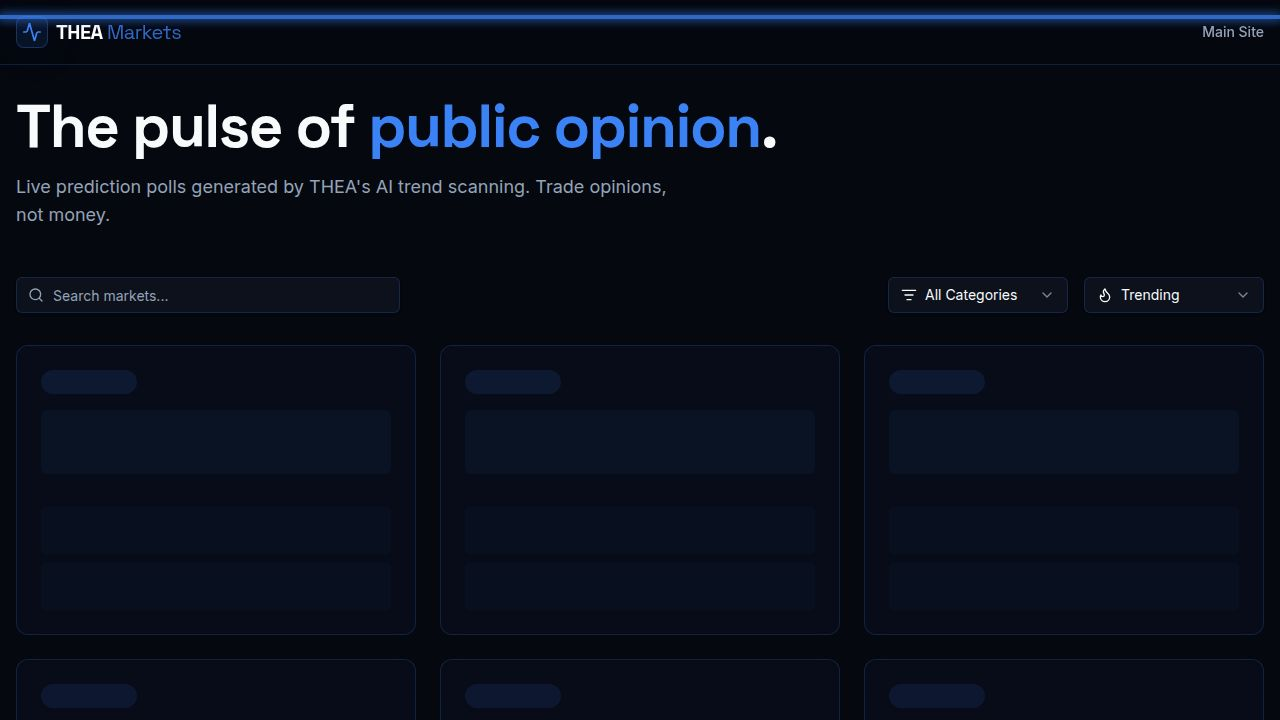
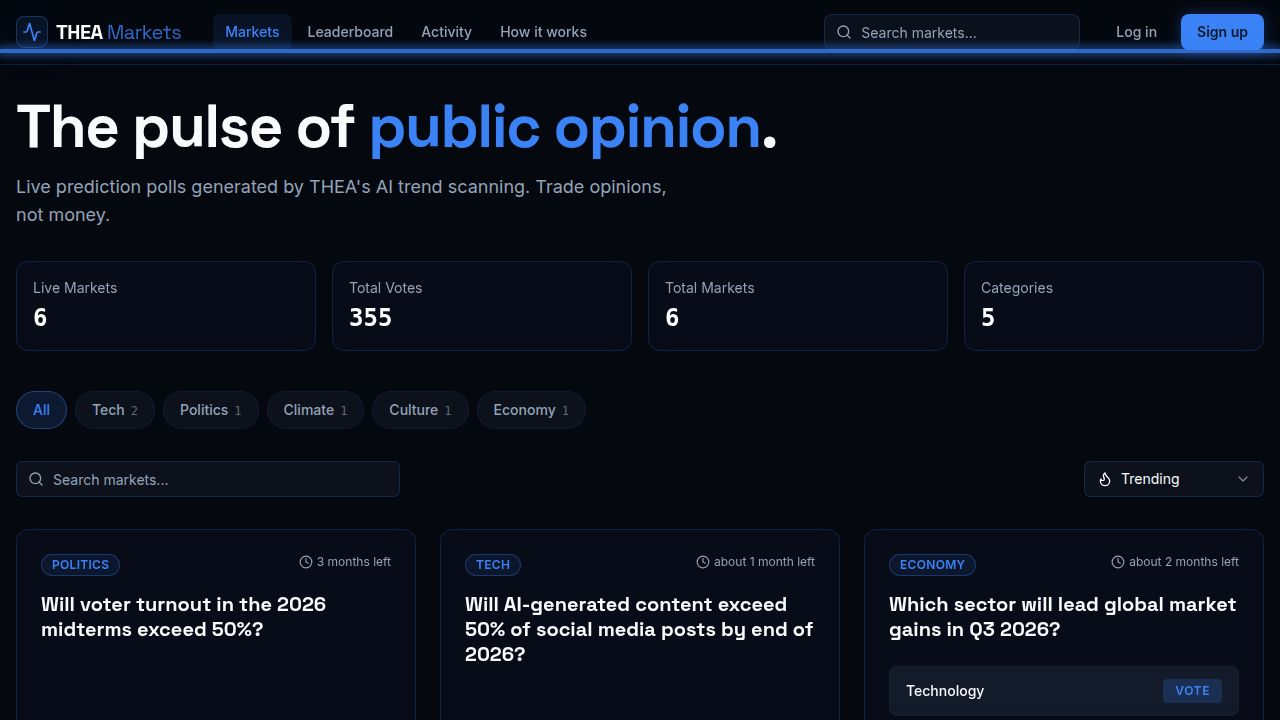
Add temporary endpoint to provision Stripe products and prices
Adds a temporary POST endpoint at /api/internal/provision-stripe to programmatically create Stripe products, prices, and webhooks. This endpoint is guarded by a PROVISION_TOKEN environment variable and is intended for one-time use after deployment. It also introduces the `stripeProvisioning.ts` module responsible for the provisioning logic.

Replit-Commit-Author: Agent
Replit-Commit-Session-Id: 346a3504-951f-44f0-abb5-65db62b4b43f
Replit-Commit-Checkpoint-Type: full_checkpoint
Replit-Commit-Event-Id: 02f2b8f2-334f-446e-89b0-edc5ef99e5f9
Replit-Commit-Screenshot-Url: https://storage.googleapis.com/screenshot-production-us-central1/e9d033dc-0117-437b-a6c1-d83e4ebe9909/346a3504-951f-44f0-abb5-65db62b4b43f/RYsPgYc
Replit-Helium-Checkpoint-Created: true

diff --git a/artifacts/api-server/src/lib/stripeProvisioning.ts b/artifacts/api-server/src/lib/stripeProvisioning.ts
@@ -1,0 +1,190 @@
+/**
+ * stripeProvisioning.ts
+ *
+ * Idempotently provisions the Stripe objects THEA billing needs:
+ *   1. Three products (Starter / Pro / Enterprise) with tier metadata.
+ *   2. Six recurring prices (monthly + annual) whose amounts match
+ *      amountForPlan() in lib/plans.ts so PayPal/crypto annual charges stay in
+ *      lockstep with Stripe.
+ *   3. A webhook endpoint pointing at <apiOrigin>/api/webhooks/stripe that
+ *      listens for the subscription/invoice events our handler processes.
+ *
+ * Must run inside the API server process, which is where the real
+ * STRIPE_SECRET_KEY is available. Returns the resulting price-ID env map plus
+ * the webhook signing secret so the caller can persist them.
+ */
+
+import { writeFileSync } from "node:fs";
+import type Stripe from "stripe";
+import { getStripeClient } from "./stripe";
+import { logger } from "./logger";
+
+interface TierConfig {
+  tier: "starter" | "pro" | "enterprise";
+  envPrefix: string;
+  name: string;
+  description: string;
+  monthlyUsd: number;
+  annualUsd: number;
+  metadata: Record<string, string>;
+}
+
+const TIERS: TierConfig[] = [
+  {
+    tier: "starter",
+    envPrefix: "STRIPE_STARTER",
+    name: "THEA Starter",
+    description: "Up to 5 users, 10 watchlist keywords, 3 categories, 14-day history",
+    monthlyUsd: 99,
+    annualUsd: 948,
+    metadata: { tier: "starter", maxUsers: "5", maxKeywords: "10", maxCategories: "3", historyDays: "14" },
+  },
+  {
+    tier: "pro",
+    envPrefix: "STRIPE_PRO",
+    name: "THEA Pro",
+    description: "Up to 20 users, 50 watchlist keywords, 7 categories, 90-day history",
+    monthlyUsd: 499,
+    annualUsd: 4788,
+    metadata: { tier: "pro", maxUsers: "20", maxKeywords: "50", maxCategories: "7", historyDays: "90" },
+  },
+  {
+    tier: "enterprise",
+    envPrefix: "STRIPE_ENTERPRISE",
+    name: "THEA Enterprise",
+    description: "Unlimited users, keywords, and categories — 10-year history, dedicated support",
+    monthlyUsd: 1999,
+    annualUsd: 19188,
+    metadata: { tier: "enterprise", maxUsers: "-1", maxKeywords: "-1", maxCategories: "-1", historyDays: "3650" },
+  },
+];
+
+const WEBHOOK_EVENTS: Stripe.WebhookEndpointCreateParams.EnabledEvent[] = [
+  "customer.subscription.created",
+  "customer.subscription.updated",
+  "customer.subscription.deleted",
+  "invoice.payment_failed",
+];
+
+export interface StripeProvisionResult {
+  priceEnv: Record<string, string>;
+  webhookSecret: string;
+  webhookUrl: string;
+  webhookId: string;
+}
+
+async function findProductByTier(stripe: Stripe, tier: string): Promise<Stripe.Product | undefined> {
+  let startingAfter: string | undefined;
+  for (;;) {
+    const page: Stripe.ApiList<Stripe.Product> = await stripe.products.list({
+      limit: 100,
+      active: true,
+      ...(startingAfter ? { starting_after: startingAfter } : {}),
+    });
+    const match = page.data.find((p) => p.metadata?.tier === tier);
+    if (match) return match;
+    if (!page.has_more || page.data.length === 0) return undefined;
+    startingAfter = page.data[page.data.length - 1].id;
+  }
+}
+
+async function ensurePrice(
+  stripe: Stripe,
+  productId: string,
+  interval: "month" | "year",
+  amountUsd: number,
+  nickname: string,
+  billing: string,
+  tier: string,
+): Promise<string> {
+  const prices = await stripe.prices.list({ product: productId, limit: 100, active: true });
+  const existing = prices.data.find(
+    (pr) =>
+      pr.recurring?.interval === interval &&
+      pr.unit_amount === amountUsd * 100 &&
+      pr.currency === "usd",
+  );
+  if (existing) return existing.id;
+  const created = await stripe.prices.create({
+    product: productId,
+    currency: "usd",
+    unit_amount: amountUsd * 100,
+    recurring: { interval },
+    nickname,
+    metadata: { tier, billing },
+  });
+  return created.id;
+}
+
+export async function runStripeProvisioning(opts: {
+  apiOrigin: string;
+  outPath?: string;
+}): Promise<StripeProvisionResult> {
+  const origin = opts.apiOrigin.replace(/\/$/, "");
+  if (!origin) throw new Error("apiOrigin is required to build the webhook URL");
+  const webhookUrl = `${origin}/api/webhooks/stripe`;
+
+  const stripe = getStripeClient();
+
+  const priceEnv: Record<string, string> = {};
+
+  for (const t of TIERS) {
+    let product = await findProductByTier(stripe, t.tier);
+    if (!product) {
+      product = await stripe.products.create({
+        name: t.name,
+        description: t.description,
+        metadata: t.metadata,
+      });
+      logger.info({ product: product.id, tier: t.tier }, "Created Stripe product");
+    }
+
+    priceEnv[`${t.envPrefix}_MONTHLY_PRICE_ID`] = await ensurePrice(
+      stripe,
+      product.id,
+      "month",
+      t.monthlyUsd,
+      `${t.name} — Monthly`,
+      "monthly",
+      t.tier,
+    );
+    priceEnv[`${t.envPrefix}_ANNUAL_PRICE_ID`] = await ensurePrice(
+      stripe,
+      product.id,
+      "year",
+      t.annualUsd,
+      `${t.name} — Annual`,
+      "annual",
+      t.tier,
+    );
+  }
+
+  // Webhook: remove any existing endpoint for this exact URL, then create fresh
+  // so we can capture the signing secret (Stripe only returns it on creation).
+  const endpoints = await stripe.webhookEndpoints.list({ limit: 100 });
+  for (const ep of endpoints.data) {
+    if (ep.url === webhookUrl) {
+      await stripe.webhookEndpoints.del(ep.id);
+      logger.info({ endpoint: ep.id }, "Removed existing Stripe webhook endpoint");
+    }
+  }
+  const endpoint = await stripe.webhookEndpoints.create({
+    url: webhookUrl,
+    enabled_events: WEBHOOK_EVENTS,
+    description: "THEA billing subscription lifecycle",
+  });
+  logger.info({ endpoint: endpoint.id }, "Created Stripe webhook endpoint");
+
+  const result: StripeProvisionResult = {
+    priceEnv,
+    webhookSecret: endpoint.secret ?? "",
+    webhookUrl,
+    webhookId: endpoint.id,
+  };
+
+  if (opts.outPath) {
+    writeFileSync(opts.outPath, JSON.stringify(result, null, 2), { mode: 0o600 });
+  }
+
+  return result;
+}

diff --git a/artifacts/api-server/src/app.ts b/artifacts/api-server/src/app.ts
@@ -87,6 +87,29 @@ app.use(defaultRateLimiter);
 app.use("/api", healthRouter);
 app.use("/api/v1", v1Router);
 
+// TEMP-PROVISION-START — one-time Stripe provisioning, guarded by PROVISION_TOKEN.
+// Inert unless PROVISION_TOKEN is set. Remove this block after provisioning.
+app.post("/api/internal/provision-stripe", (req, res) => {
+  const token = process.env.PROVISION_TOKEN;
+  if (!token || req.header("x-provision-token") !== token) {
+    res.status(404).json({ error: "Not found" });
+    return;
+  }
+  const origin =
+    process.env.API_ORIGIN ||
+    (process.env.REPLIT_DEV_DOMAIN ? `https://${process.env.REPLIT_DEV_DOMAIN}` : "");
+  import("./lib/stripeProvisioning")
+    .then((m) => m.runStripeProvisioning({ apiOrigin: origin, outPath: "/tmp/stripe-setup.out.json" }))
+    .then((result) => {
+      res.json({ ok: true, priceEnv: result.priceEnv, webhookUrl: result.webhookUrl, webhookId: result.webhookId });
+    })
+    .catch((err: unknown) => {
+      logger.error({ err }, "Stripe provisioning failed");
+      res.status(500).json({ error: err instanceof Error ? err.message : String(err) });
+    });
+});
+// TEMP-PROVISION-END
+
 app.use(
   "/api/docs",
   swaggerUi.serve,